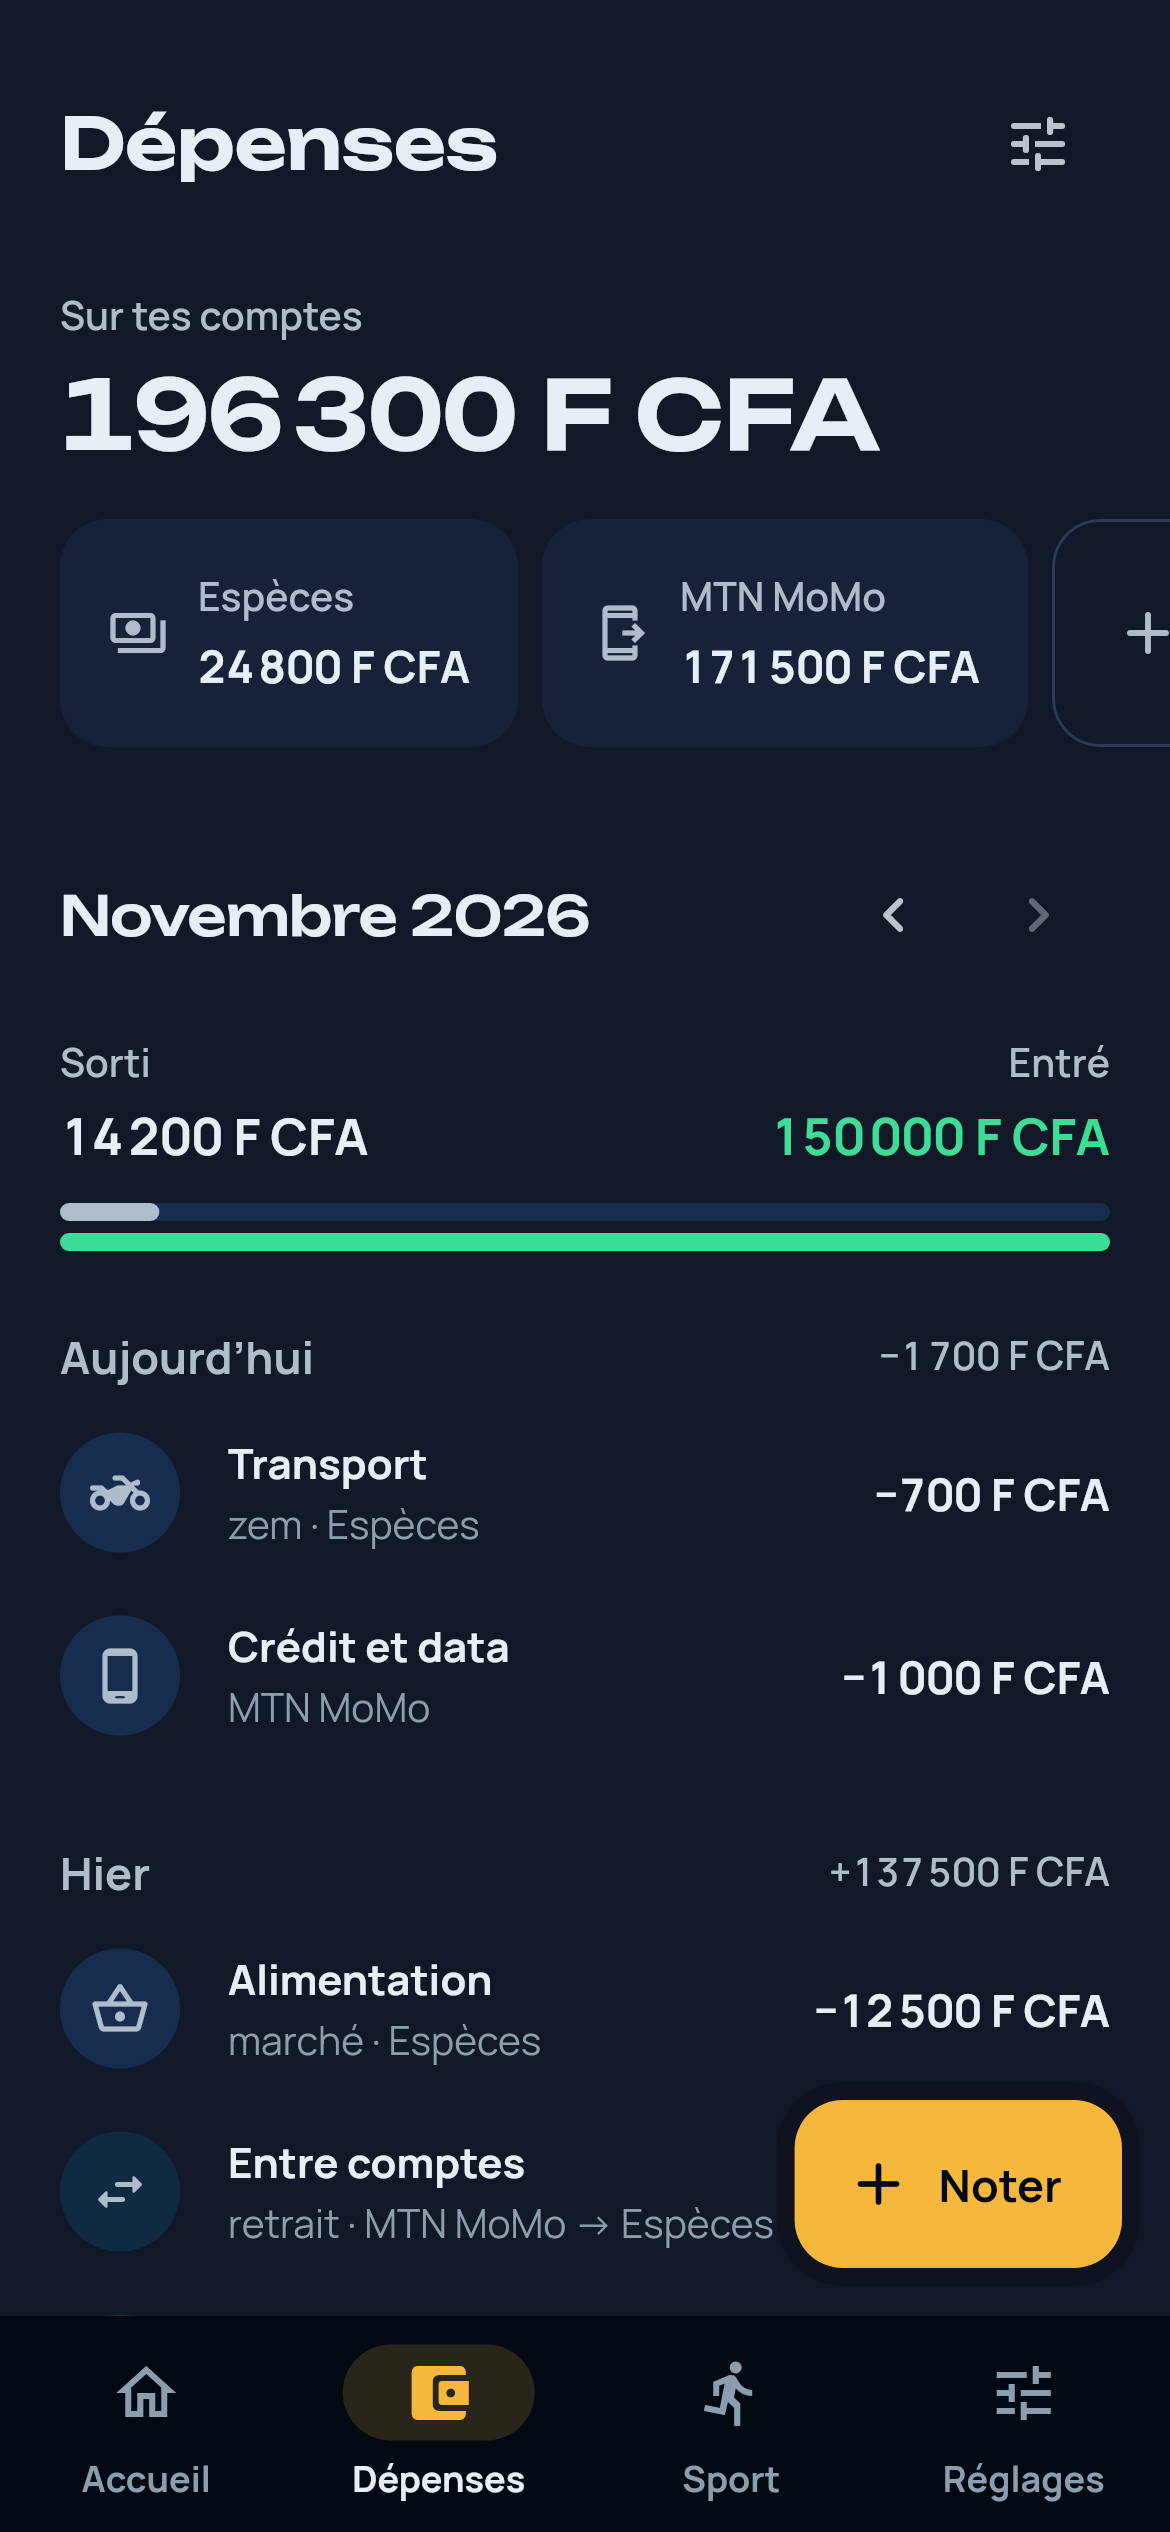
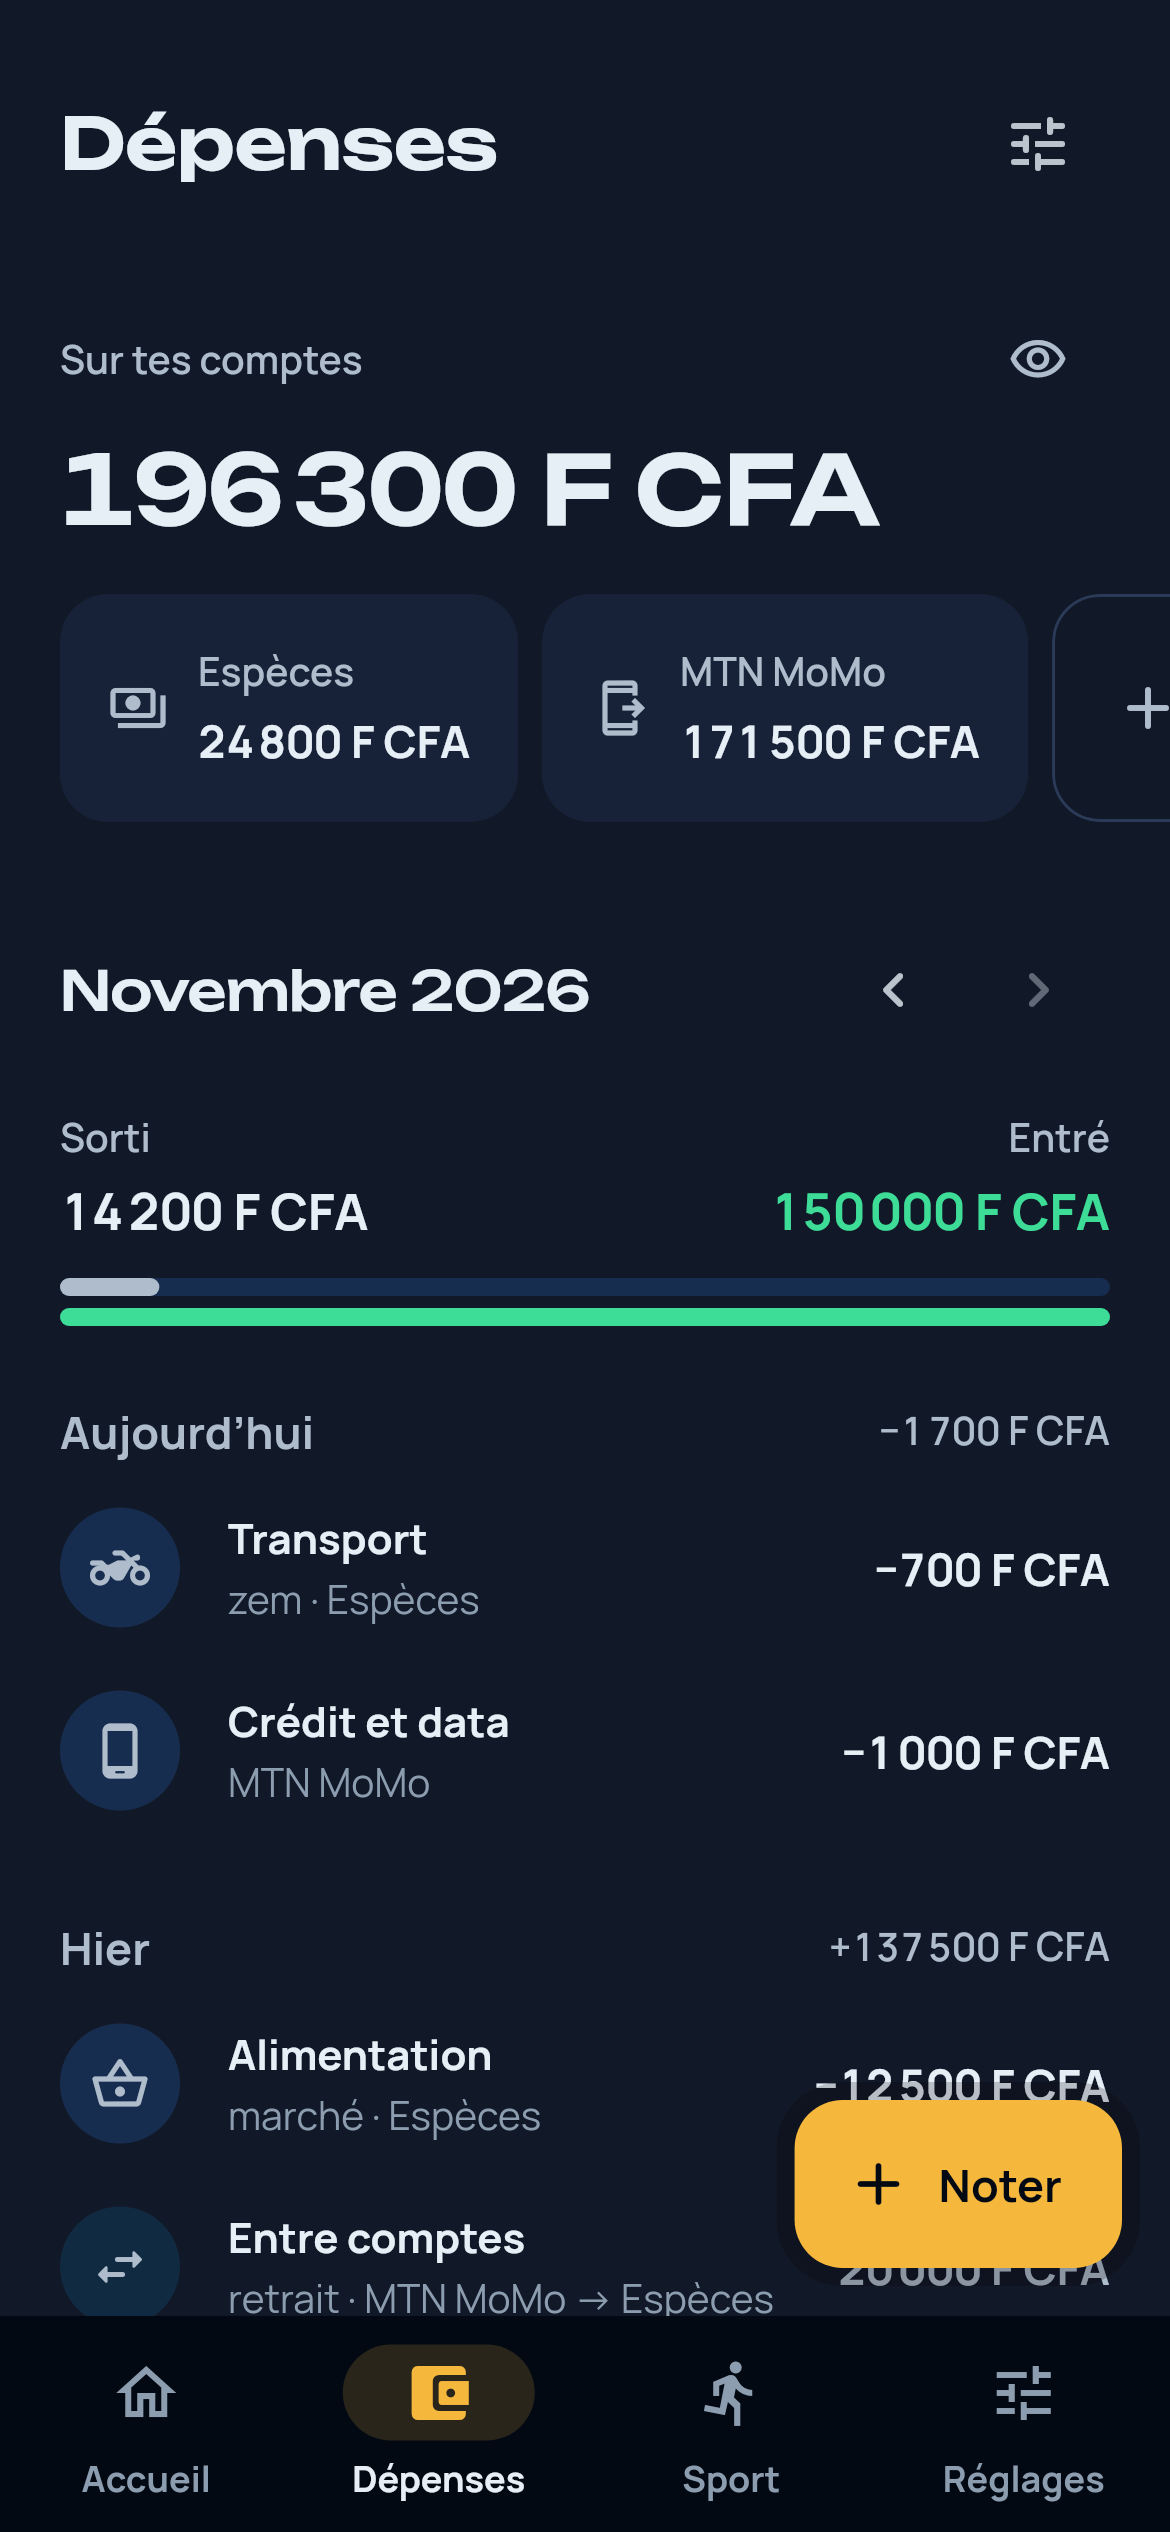
feat(depenses): masquer les montants d'un œil
L'œil, à côté de « Sur tes comptes », masque d'un coup le solde, les
comptes, les sorties et entrées du mois, les totaux du jour et chaque
opération (« ••• F CFA »), écran Comptes compris : la zone LucidPrivacy
entoure toutes les routes du profil ouvert. Un solde négatif masqué perd
son rouge, qui le trahirait.

Le choix est retenu par profil dans shared_preferences, lu avant le
premier affichage : c'est un réglage du téléphone, pas une donnée du
profil, il ne part donc pas dans les sauvegardes.

diff --git a/lib/features/expenses/ui/expenses_screen.dart b/lib/features/expenses/ui/expenses_screen.dart
@@ -88,15 +88,20 @@ class _Content extends ConsumerWidget {
                 ],
               ),
               const SizedBox(height: PalierSpace.lg),
-              Text(l10n.expensesBalanceLabel, style: text.labelMedium),
-              const SizedBox(height: PalierSpace.xs),
+              Row(
+                children: [
+                  Expanded(child: Text(l10n.expensesBalanceLabel, style: text.labelMedium)),
+                  const LucidPrivacyToggle(color: PalierColors.textMid, iconSize: 20),
+                ],
+              ),
               FittedBox(
                 alignment: Alignment.centerLeft,
                 fit: BoxFit.scaleDown,
-                child: Text(
+                child: LucidPrivateText(
                   formatMoney(total, currency),
+                  mask: maskedMoney(currency),
                   style: text.displaySmall!.copyWith(
-                    color: total < 0 ? PalierColors.danger : PalierColors.textHigh,
+                    color: balanceColor(context, total),
                     fontFeatures: const [FontFeature.tabularFigures()],
                   ),
                 ),
@@ -230,12 +235,13 @@ class _AccountChip extends StatelessWidget {
                     style: manrope(size: 13, weight: FontWeight.w600, color: PalierColors.textMid),
                   ),
                   const SizedBox(height: 2),
-                  Text(
+                  LucidPrivateText(
                     formatMoney(account.balance, currency),
+                    mask: maskedMoney(currency),
                     style: manrope(
                       size: 15,
                       weight: FontWeight.w700,
-                      color: account.balance < 0 ? PalierColors.danger : PalierColors.textHigh,
+                      color: balanceColor(context, account.balance),
                     ).copyWith(fontFeatures: const [FontFeature.tabularFigures()]),
                   ),
                 ],
@@ -331,8 +337,9 @@ class _MonthSummary extends StatelessWidget {
       children: [
         Text(label, style: text.labelMedium),
         const SizedBox(height: 2),
-        Text(
+        LucidPrivateText(
           formatMoney(amount, currency),
+          mask: maskedMoney(currency),
           style: manrope(
             size: 17,
             weight: FontWeight.w700,
@@ -397,8 +404,9 @@ class _DayHeader extends StatelessWidget {
             child: Text(label, style: text.labelLarge!.copyWith(color: PalierColors.textMid)),
           ),
           if (net != 0)
-            Text(
+            LucidPrivateText(
               formatMoney(net, currency, signed: true),
+              mask: maskedMoney(currency),
               style: text.labelMedium!.copyWith(fontFeatures: const [FontFeature.tabularFigures()]),
             ),
         ],

diff --git a/test/widget/expenses_flow_test.dart b/test/widget/expenses_flow_test.dart
@@ -3,11 +3,13 @@ import 'package:flutter/rendering.dart';
 import 'package:flutter_test/flutter_test.dart';
 import 'package:lucid_core_flutter/lucid_core_flutter.dart' show LucidSnack;
 import 'package:palier/app/providers.dart';
+import 'package:palier/app/theme/palier_tokens.dart';
 import 'package:palier/features/expenses/domain/expense_kinds.dart';
 import 'package:palier/features/expenses/domain/expenses.dart';
 import 'package:palier/features/expenses/domain/money.dart';
 import 'package:palier/features/expenses/ui/amount_pad.dart';
 import 'package:palier/features/profiles/domain/profile.dart';
+import 'package:shared_preferences/shared_preferences.dart';
 
 import '../helpers/pump_app.dart';
 
@@ -51,6 +53,35 @@ void main() {
     expect(find.text('Alimentation'), findsOneWidget);
     expect(find.text(formatMoney(-25000, _xof, signed: true)), findsWidgets);
     expect(find.text(formatMoney(-25000, _xof)), findsWidgets, reason: 'solde total et compte Espèces');
+  });
+
+  testWidgets('l’œil masque tous les montants, et le téléphone s’en souvient', (tester) async {
+    final app = await _openExpenses(tester);
+    await tester.tap(find.text('Noter'));
+    await app.settle(tester);
+    await _pad(tester, ['2', '5', 'Trois zéros']);
+    await tester.tap(find.text('Alimentation'));
+    await tester.pump();
+    await tester.tap(find.text('Enregistrer la dépense'));
+    await app.settle(tester);
+    expect(find.text(formatMoney(-25000, _xof)), findsWidgets);
+
+    await tester.tap(find.byTooltip('Masquer les montants'));
+    await app.settle(tester);
+    expect(find.text(formatMoney(-25000, _xof)), findsNothing, reason: 'solde, compte');
+    expect(find.text(formatMoney(-25000, _xof, signed: true)), findsNothing, reason: 'opération, jour');
+    expect(find.text(formatMoney(25000, _xof)), findsNothing, reason: 'sorties du mois');
+    expect(find.text(maskedMoney(_xof)), findsWidgets);
+    final total = tester.widget<Text>(find.text(maskedMoney(_xof)).first);
+    expect(total.style?.color, isNot(PalierColors.danger), reason: 'le rouge trahirait un solde négatif');
+
+    final prefs = await SharedPreferences.getInstance();
+    final profileId = app.container.read(activeProfileProvider)!.id;
+    expect(prefs.getBool('palier.amountsHidden.$profileId'), isTrue);
+
+    await tester.tap(find.byTooltip('Afficher les montants'));
+    await app.settle(tester);
+    expect(find.text(formatMoney(-25000, _xof)), findsWidgets);
   });
 
   testWidgets('une dépense sans catégorie dit ce qui manque', (tester) async {

diff --git a/lib/app/palier_app.dart b/lib/app/palier_app.dart
@@ -2,6 +2,7 @@ import 'package:flutter/material.dart';
 import 'package:flutter_riverpod/flutter_riverpod.dart';
 import 'package:lucid_core_flutter/lucid_core_flutter.dart';
 
+import '../features/expenses/ui/expenses_providers.dart';
 import '../l10n/app_localizations.dart';
 import 'providers.dart';
 import 'router.dart';
@@ -77,6 +78,7 @@ class _PalierAppState extends ConsumerState<PalierApp> {
     // Palier n'a qu'un thème, sombre : il sert dans les deux modes, pour que le
     // passage clair/sombre du téléphone ne ramène pas le thème par défaut du socle.
     final theme = palierTheme(accent);
+    final profileId = ref.watch(activeProfileIdProvider);
     return LucidApp.router(
       title: 'Palier',
       themeNotifier: _lucidTheme,
@@ -86,6 +88,10 @@ class _PalierAppState extends ConsumerState<PalierApp> {
       locale: const Locale('fr'),
       additionalLocalizationsDelegates: const [AppLocalizations.delegate],
       additionalSupportedLocales: AppLocalizations.supportedLocales,
+      // L'œil des montants vaut pour tous les écrans du profil ouvert.
+      builder: (context, child) => profileId == null
+          ? child!
+          : LucidPrivacyScope(controller: ref.watch(amountsPrivacyProvider(profileId)), child: child!),
     );
   }
 }

diff --git a/lib/features/expenses/ui/expenses_providers.dart b/lib/features/expenses/ui/expenses_providers.dart
@@ -1,4 +1,5 @@
 import 'package:flutter_riverpod/flutter_riverpod.dart';
+import 'package:lucid_core_flutter/lucid_core_flutter.dart' show LucidPrivacyController;
 
 import '../../../app/providers.dart';
 import '../domain/expense_kinds.dart';
@@ -32,6 +33,17 @@ final categoriesProvider = StreamProvider.family<List<Category>, CategoryKind?>(
   }
   await ref.watch(expensesSetupProvider(profileId).future);
   yield* ref.watch(expensesRepositoryProvider).watchCategories(profileId, kind: kind);
+});
+
+/// L'œil des montants d'un profil, retenu sur ce téléphone : un réglage
+/// d'affichage, pas une donnée du profil (il ne part pas dans les sauvegardes).
+final amountsPrivacyProvider = Provider.family<LucidPrivacyController, String>((ref, profileId) {
+  final preferences = ref.watch(preferencesProvider);
+  final key = 'palier.amountsHidden.$profileId';
+  final controller = LucidPrivacyController(hidden: preferences.getBool(key) ?? false);
+  controller.addListener(() => preferences.setBool(key, controller.hidden));
+  ref.onDispose(controller.dispose);
+  return controller;
 });
 
 /// Le mois affiché (premier jour, heure locale). On ne va pas au-delà du mois en cours.

diff --git a/lib/features/expenses/ui/expense_widgets.dart b/lib/features/expenses/ui/expense_widgets.dart
@@ -1,4 +1,5 @@
 import 'package:flutter/material.dart';
+import 'package:lucid_core_flutter/lucid_core_flutter.dart' show LucidPrivacyScope, LucidPrivateText;
 
 import '../../../app/theme/palier_theme.dart';
 import '../../../app/theme/palier_tokens.dart';
@@ -177,8 +178,9 @@ class OperationTile extends StatelessWidget {
               ),
             ),
             const SizedBox(width: PalierSpace.md),
-            Text(
+            LucidPrivateText(
               amount,
+              mask: maskedMoney(currency),
               style: manrope(
                 size: 15,
                 weight: FontWeight.w700,
@@ -201,3 +203,8 @@ String dayLabel(AppLocalizations l10n, DateTime day, String Function(DateTime) l
   final label = longFormat(day);
   return label[0].toUpperCase() + label.substring(1);
 }
+
+/// Couleur d'un solde : rouge s'il est négatif, sauf montants masqués (le
+/// rouge dirait encore que le compte est à découvert).
+Color balanceColor(BuildContext context, int balance) =>
+    balance < 0 && !LucidPrivacyScope.isHidden(context) ? PalierColors.danger : PalierColors.textHigh;

diff --git a/lib/main.dart b/lib/main.dart
@@ -3,6 +3,7 @@ import 'package:flutter/services.dart';
 import 'package:flutter/widgets.dart';
 import 'package:flutter_riverpod/flutter_riverpod.dart';
 import 'package:intl/date_symbol_data_local.dart';
+import 'package:shared_preferences/shared_preferences.dart';
 
 import 'app/palier_app.dart';
 import 'app/providers.dart';
@@ -12,9 +13,18 @@ Future<void> main() async {
   WidgetsFlutterBinding.ensureInitialized();
   await initializeDateFormatting('fr');
   _registerFontLicenses();
+  // Lues avant le premier affichage : des montants masqués ne doivent pas
+  // apparaître un instant au lancement.
+  final preferences = await SharedPreferences.getInstance();
 
   runApp(
-    ProviderScope(overrides: [databaseProvider.overrideWithValue(PalierDatabase.device())], child: const PalierApp()),
+    ProviderScope(
+      overrides: [
+        preferencesProvider.overrideWithValue(preferences),
+        databaseProvider.overrideWithValue(PalierDatabase.device()),
+      ],
+      child: const PalierApp(),
+    ),
   );
 }
 

diff --git a/lib/features/expenses/ui/accounts_screen.dart b/lib/features/expenses/ui/accounts_screen.dart
@@ -50,12 +50,13 @@ class AccountsScreen extends ConsumerWidget {
                   leading: Icon(accountIcon(account.kind)),
                   title: Text(account.name),
                   subtitle: Text(l10n.accountKindName(account.kind)),
-                  trailing: Text(
+                  trailing: LucidPrivateText(
                     formatMoney(account.balance, currency),
+                    mask: maskedMoney(currency),
                     style: manrope(
                       size: 15,
                       weight: FontWeight.w700,
-                      color: account.balance < 0 ? PalierColors.danger : PalierColors.textHigh,
+                      color: balanceColor(context, account.balance),
                     ).copyWith(fontFeatures: const [FontFeature.tabularFigures()]),
                   ),
                   onTap: () => context.push(Routes.expensesAccount(account.id)),

diff --git a/lib/app/providers.dart b/lib/app/providers.dart
@@ -1,4 +1,5 @@
 import 'package:flutter_riverpod/flutter_riverpod.dart';
+import 'package:shared_preferences/shared_preferences.dart';
 
 import '../core/security/biometric_gate.dart';
 import '../data/database.dart';
@@ -10,6 +11,11 @@ import '../features/profiles/data/profiles_repository.dart';
 import '../features/profiles/domain/profile.dart';
 
 /// La base SQLite ; remplacée dans `main` (téléphone) et dans les tests (mémoire).
+/// Les réglages propres à ce téléphone, lus avant le premier affichage.
+final preferencesProvider = Provider<SharedPreferences>(
+  (ref) => throw UnimplementedError('préférences chargées au démarrage, dans main()'),
+);
+
 final databaseProvider = Provider<PalierDatabase>((ref) {
   throw UnimplementedError('databaseProvider doit être remplacé au démarrage');
 });

diff --git a/test/helpers/pump_app.dart b/test/helpers/pump_app.dart
@@ -34,6 +34,7 @@ class TestApp {
     Future<void> Function(ProfilesRepository repo)? seed,
   }) async {
     SharedPreferences.setMockInitialValues({});
+    final preferences = await SharedPreferences.getInstance();
     tester.view
       ..physicalSize = size * 3
       ..devicePixelRatio = 3;
@@ -44,6 +45,7 @@ class TestApp {
     final files = FakeBackupFiles();
     final container = ProviderContainer(
       overrides: [
+        preferencesProvider.overrideWithValue(preferences),
         databaseProvider.overrideWithValue(db),
         profilesRepositoryProvider.overrideWith((ref) => ProfilesRepository(db, hasher: hasher)),
         backupServiceProvider.overrideWith(

diff --git a/lib/features/expenses/domain/money.dart b/lib/features/expenses/domain/money.dart
@@ -15,6 +15,9 @@ String formatMoney(int minor, PalierCurrency currency, {bool signed = false, boo
   return withSymbol ? '$number ${currency.symbol}' : number;
 }
 
+/// Un montant masqué : la devise reste, pour reconnaître la ligne.
+String maskedMoney(PalierCurrency currency) => '••• ${currency.symbol}';
+
 int _scale(PalierCurrency currency) {
   var scale = 1;
   for (var i = 0; i < currency.decimals; i++) {
